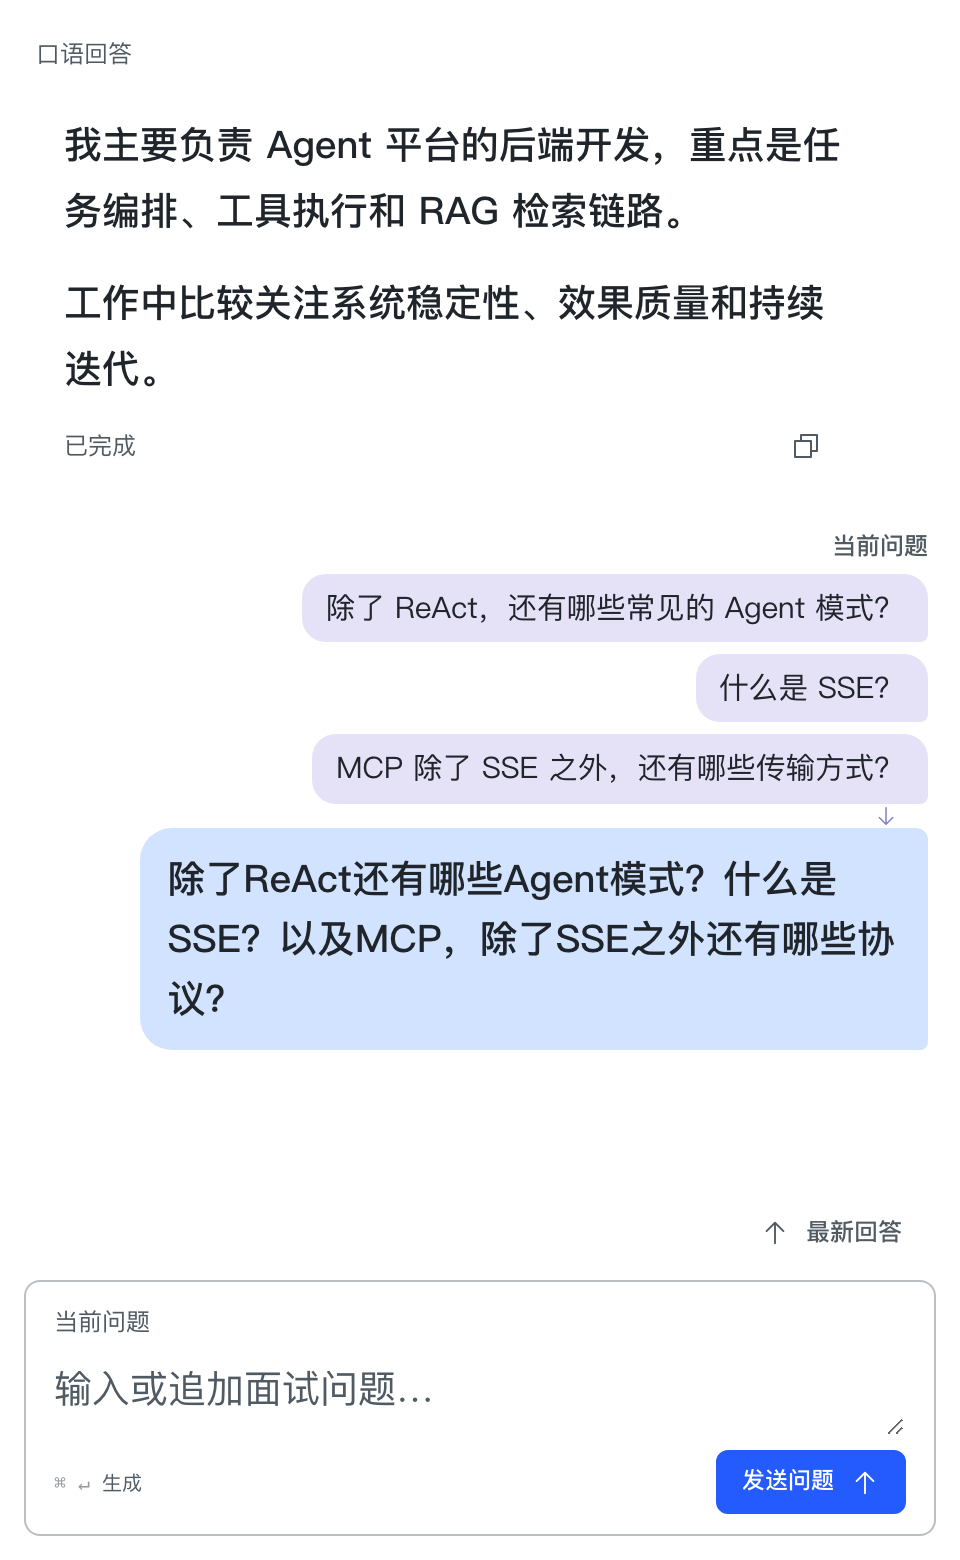
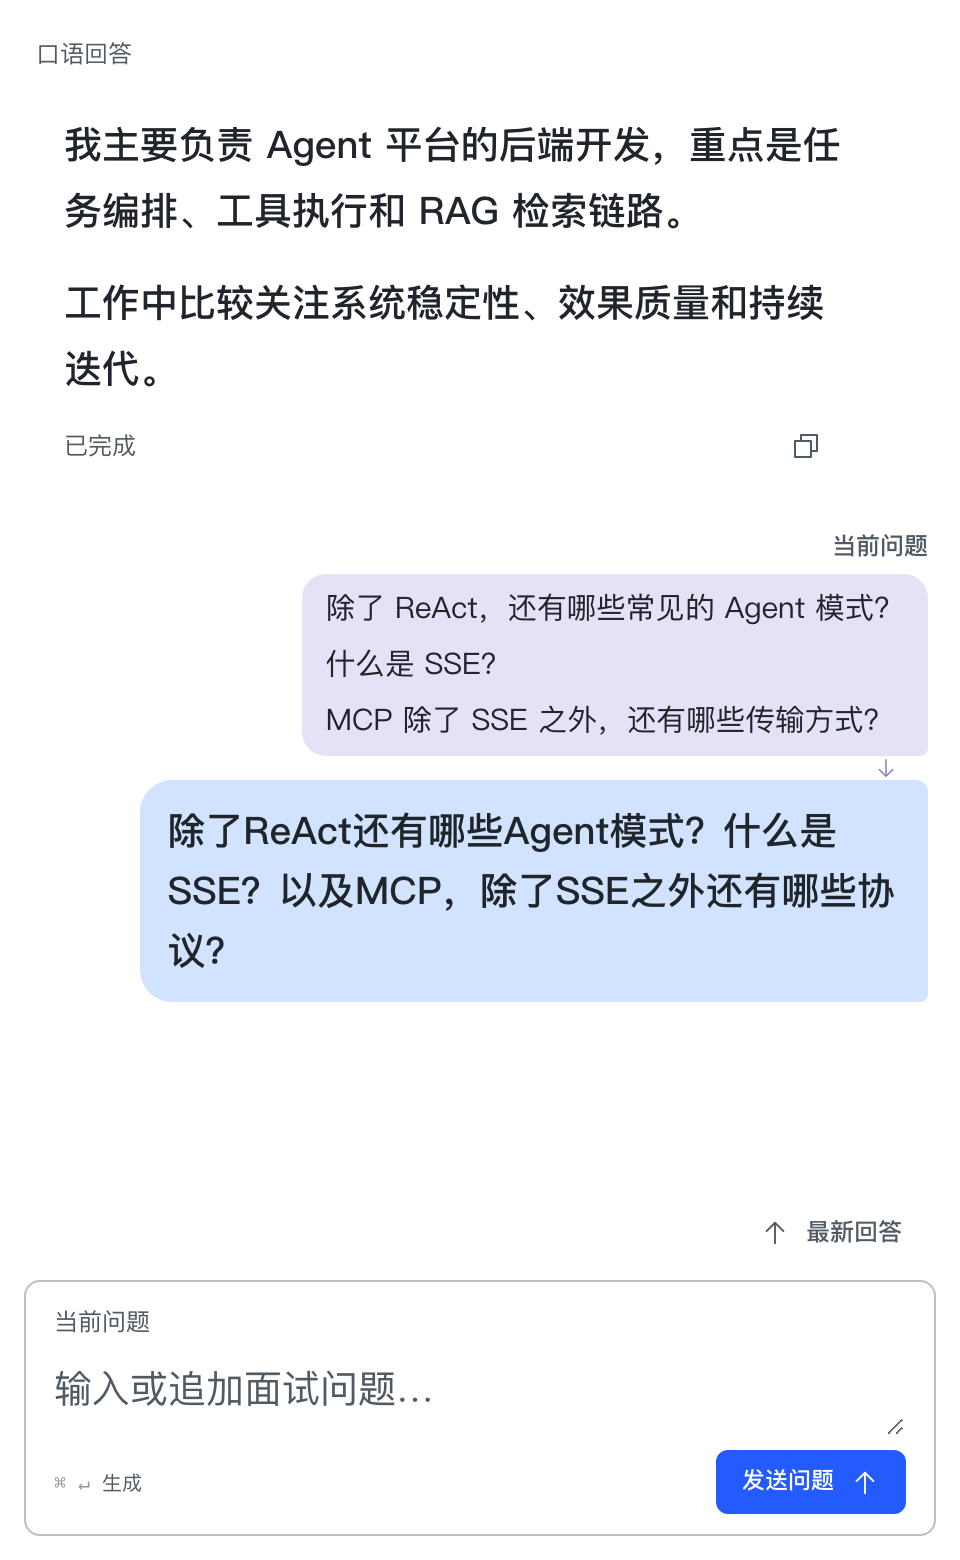
fix: group compact extracted questions in one bubble (#36)

Changed region(s): [[0.125, 0.4, 0.9688, 0.6769]]

diff --git a/frontend/tests/answer-card.test.tsx b/frontend/tests/answer-card.test.tsx
@@ -62,12 +62,16 @@ it.each([false, true])('shows extracted questions, raw provenance and actual sen
   }
   expect(screen.getByRole('heading', { name: answer.question })).toBeDefined()
 })
-it.each(successfulRewriteCases)('shows $name between the shared compact label and the original question in production', ({ result, questions }) => {
+it.each(successfulRewriteCases)('shows $name in one compact bubble between the shared label and the original question in production', ({ result, questions }) => {
   vi.stubEnv('DEV', false)
   render(<AnswerCard answer={{ ...answer, questionRewrite: result }} index={1} compact />)
 
   const original = screen.getByRole('heading', { name: answer.question })
   const header = original.closest('header')!
+  const generated = within(header).getByRole('list', { name: '整理后的问题' })
+  expect(generated.classList.contains('compact-answer__generated-bubble')).toBe(true)
+  expect(header.getElementsByClassName('compact-answer__generated-bubble')).toHaveLength(1)
+  expect(within(generated).getAllByRole('listitem').map(item => item.textContent)).toEqual(questions)
   expect(within(header).getAllByText('当前问题')).toHaveLength(1)
   for (const question of questions) expect(within(header).getAllByText(question)).toHaveLength(1)
   expect(header.textContent).toBe(['当前问题', ...questions, answer.question].join(''))
@@ -79,11 +83,15 @@ it.each(successfulRewriteCases)('shows $name between the shared compact label an
   expect(screen.queryByText(/原话来源：|指代上下文：/)).toBeNull()
   expect(screen.queryByText(/rewrite-model|extract-model/)).toBeNull()
 })
-it.each(successfulRewriteCases)('shows $name in the same compact header in development', ({ result, questions }) => {
+it.each(successfulRewriteCases)('shows $name in one compact bubble in development', ({ result, questions }) => {
   vi.stubEnv('DEV', true)
   render(<AnswerCard answer={{ ...answer, questionRewrite: result }} index={1} compact />)
 
   const header = screen.getByRole('heading', { name: answer.question }).closest('header')!
+  const generated = within(header).getByRole('list', { name: '整理后的问题' })
+  expect(generated.classList.contains('compact-answer__generated-bubble')).toBe(true)
+  expect(header.getElementsByClassName('compact-answer__generated-bubble')).toHaveLength(1)
+  expect(within(generated).getAllByRole('listitem').map(item => item.textContent)).toEqual(questions)
   for (const question of questions) expect(within(header).getAllByText(question)).toHaveLength(1)
   expect(header.textContent).toBe(['当前问题', ...questions, answer.question].join(''))
   expect(screen.getByRole('button', { name: /问题整理|问题提取/ })).toBeDefined()
@@ -124,7 +132,7 @@ it('keeps a successful scalar rewrite even when it repeats the original question
   expect(within(header).getAllByText(answer.question)).toHaveLength(2)
   expect(header.textContent).toBe(`当前问题${answer.question}${answer.question}`)
 })
-it('shows every model question in order without filtering duplicate or original text', () => {
+it('shows every model question in one bubble in order without filtering duplicate or original text', () => {
   vi.stubEnv('DEV', false)
   render(<AnswerCard answer={{ ...answer, questionRewrite: {
     ...extractedRewrite,
@@ -136,6 +144,10 @@ it('shows every model question in order without filtering duplicate or original 
   } }} index={1} compact />)
 
   const header = screen.getByRole('heading', { name: answer.question }).closest('header')!
+  const generated = within(header).getByRole('list', { name: '整理后的问题' })
+  expect(generated.classList.contains('compact-answer__generated-bubble')).toBe(true)
+  expect(header.getElementsByClassName('compact-answer__generated-bubble')).toHaveLength(1)
+  expect(within(generated).getAllByRole('listitem').map(item => item.textContent)).toEqual([answer.question, '保留模型措辞', answer.question])
   expect(within(header).getAllByText(answer.question)).toHaveLength(3)
   expect(within(header).getByText('保留模型措辞')).toBeDefined()
   expect(header.textContent).toBe(`当前问题${answer.question}保留模型措辞${answer.question}${answer.question}`)

diff --git a/frontend/src/renderer/src/styles/tokens.css b/frontend/src/renderer/src/styles/tokens.css
@@ -292,8 +292,8 @@ html.compact-transparent #root { background: transparent; }
 .compact-answer__question { display: flex; flex-direction: column; align-items: flex-end; gap: 6px; margin-bottom: 18px; }
 .compact-answer__question-bubble { max-width: 88%; margin: 0; padding: 10px 14px; border-radius: 16px 16px 4px 16px; background: var(--compact-question-fill); font-size: var(--compact-font-size, 19px); line-height: 1.6; font-weight: 500; text-align: left; }
 .compact-answer__question-pair { display: flex; flex-direction: column; align-items: flex-end; width: 100%; min-width: 0; }
-.compact-answer__generated { display: flex; flex-direction: column; align-items: flex-end; gap: 6px; max-width: 88%; min-width: 0; margin: 0; padding: 0; list-style: none; }
-.compact-answer__generated-bubble { max-width: 100%; padding: 6px 12px; border-radius: 12px 12px 4px 12px; background: var(--compact-generated-fill); color: var(--color-text-heading); font-size: clamp(10px, calc(var(--compact-font-size, 19px) * 0.78), 20px); line-height: 1.5; text-align: left; white-space: pre-wrap; overflow-wrap: anywhere; }
+.compact-answer__generated { display: flex; flex-direction: column; gap: 6px; max-width: 88%; min-width: 0; margin: 0; list-style: none; }
+.compact-answer__generated-bubble { padding: 6px 12px; border-radius: 12px 12px 4px 12px; background: var(--compact-generated-fill); color: var(--color-text-heading); font-size: clamp(10px, calc(var(--compact-font-size, 19px) * 0.78), 20px); line-height: 1.5; text-align: left; white-space: pre-wrap; overflow-wrap: anywhere; }
 .compact-answer__question-connector { flex-shrink: 0; width: 14px; height: 12px; margin-right: 14px; color: var(--color-compact-question-link); }
 .compact-answer__question-bubble--linked { border-top-right-radius: 6px; }
 .compact-answer__label { margin: 0 0 6px 2px; font-size: 12px; color: var(--color-text-secondary); }

diff --git a/frontend/src/renderer/src/components/AnswerCard.tsx b/frontend/src/renderer/src/components/AnswerCard.tsx
@@ -32,8 +32,8 @@ export default function AnswerCard({ answer, index, compact = false }: AnswerCar
   const question = <header className={cn(compact ? 'compact-answer__question mt-4' : 'mb-5 flex items-start gap-3')}>
       {compact ? <p className="text-xs font-medium text-text-secondary">当前问题</p> : <Badge className="border-transparent bg-success-subtle font-mono text-[10px] text-success">Q{String(index).padStart(2, '0')}</Badge>}
       {generatedQuestions.length > 0 ? <div className="compact-answer__question-pair">
-        <ol className="compact-answer__generated" aria-label="整理后的问题" aria-live="polite">
-          {generatedQuestions.map(value => <li className="compact-answer__generated-bubble" key={value.id}>{value.question}</li>)}
+        <ol className="compact-answer__generated compact-answer__generated-bubble" aria-label="整理后的问题" aria-live="polite">
+          {generatedQuestions.map(value => <li key={value.id}>{value.question}</li>)}
         </ol>
         <ArrowDown className="compact-answer__question-connector" aria-hidden="true" />
         {originalQuestion}

diff --git a/README.md b/README.md
@@ -11,9 +11,9 @@
 <details>
 <summary>整理问题与面试官原话</summary>
 
-紧凑模式将成功整理的问题放在原话上方，以右侧对齐和短箭头关联；单题、多题都保留模型返回的顺序和措辞。下图为实际组件的合成示例，开发版与安装版均可显示。
+紧凑模式将成功整理的问题放在原话上方，以右侧对齐和短箭头关联；多个问题在同一个淡紫小气泡内按顺序换行，保留模型措辞。下图为实际组件的合成示例，开发版与安装版均可显示。
 
-<img src="assets/readme/compact-question-bubbles.png" alt="三道整理后的小问题气泡与下方面试官原话相连" width="360" />
+<img src="assets/readme/compact-question-bubbles.png" alt="同一个淡紫气泡内的三道整理问题与下方面试官原话相连" width="360" />
 
 </details>
 
@@ -107,7 +107,7 @@
 | `deploy/` | PostgreSQL/pgvector 镜像、Compose 与通用部署文件 |
 | `scripts/backend.mjs` | Maven Wrapper 统一入口 |
 
-三个应用模块独立版本化。桌面当前版本由 `frontend/package.json` 统一维护，为 **2.7.2**；管理端目前为 **2.10.0**，后端为 **2.8.2**。macOS 与 Windows 使用相同的三段应用版本号。
+三个应用模块独立版本化。桌面当前版本由 `frontend/package.json` 统一维护，为 **2.7.3**；管理端目前为 **2.10.0**，后端为 **2.8.2**。macOS 与 Windows 使用相同的三段应用版本号。
 
 ## 问题提取与整理
 
@@ -120,6 +120,7 @@
 多题链路需配套桌面 **2.7.0+** 与平台 **2.10.0（后端2.8.0）+**，无需新 SQL 或重建向量。旧桌面仍用原单题整理接口，新桌面遇旧平台沿用旧能力；历史支持旧记录，并为旧客户端省略不兼容的多题辅助字段，保留原问答与当时保存的来源。开发模式可查看拆题及证据关联，安装版不增加调试区域。
 
 桌面 **2.7.2** 起，紧凑模式在原话上方显示成功整理的问题小气泡，开发版与安装版一致；失败、跳过或尚未完成时只显示原话。该展示直接使用已有结果，不新增模型调用。
+桌面 **2.7.3** 将多个整理问题合并到同一个小气泡内，按原顺序逐项换行。
 
 后端2.8.2将提取、主题补全和措辞优化统一交给模型提示词，不用代码判断关键词、语义、漏题或来源是否逐字匹配。程序仅处理JSON结构、数量/长度边界及顺序编号；保留超时取消和失败回原话。来源片段由模型提供，用于展示与历史快照，不作语义校验依据。
 

diff --git a/CHANGELOG.md b/CHANGELOG.md
@@ -1,5 +1,12 @@
 # 版本变更记录
 
+## 多个整理问题合并为单气泡 — 2026-11-13
+
+- 桌面2.7.2→2.7.3，展示修正PATCH+1；多个整理问题在同一个淡紫小气泡内按顺序换行，保留与原话的对齐和短箭头。
+- 不改变问题内容、原始顺序、状态判断、检索或模型调用。管理端和后端不变，无需服务器部署。
+- 验证：38项相关组件测试、类型检查与生产构建、4项实际组件生产展示检查通过；确认多题只有一个背景气泡，窄窗/长词/大字体可换行滚动，README实际预览同步。
+- 性能估算：只将背景样式移到既有列表容器，DOM节点和外部调用数量不变；预计延迟、吞吐、CPU/内存和存储无可感知变化，费用不变，未做性能测试。验证与双平台发布状态见desktop-v2.7.3。
+
 ## 紧凑模式关联问题气泡 — 2026-11-13
 
 - 桌面2.7.1→2.7.2，展示改进PATCH+1；管理端与后端不变。
